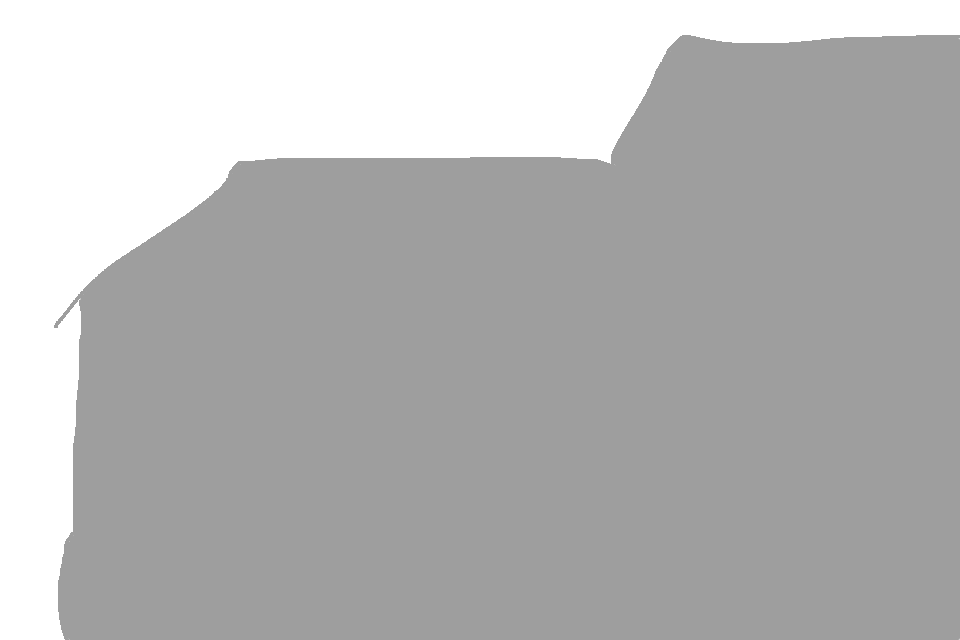
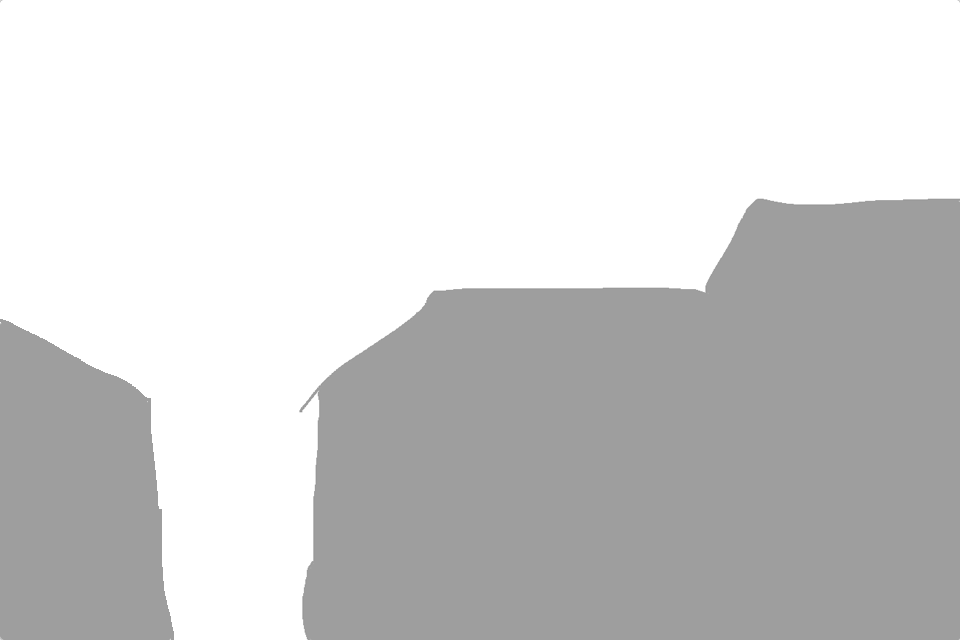
Add possibility to save when the sun arrives on the day.

diff --git a/public/stylesheets/sass/application.sass b/public/stylesheets/sass/application.sass
@@ -15,6 +15,11 @@ header
   #house
     position: absolute
 
+  #birth_container
+    position: absolute
+    top: 320px
+    left: 10px
+
   #disappearance
     position: absolute
     top: 10px
@@ -22,16 +27,16 @@ header
   
   #position1_container
     position: absolute
-    top: 300px
-    left: 50px
+    top: 370px
+    left: 300px
   #position2_container
     position: absolute
-    top: 150px
-    left: 210px
+    top: 280px
+    left: 415px
   #position3_container
     position: absolute
-    top: 40px
-    left: 650px
+    top: 190px
+    left: 740px
 
 table
   td, th

diff --git a/spec/controllers/status_controller_spec.rb b/spec/controllers/status_controller_spec.rb
@@ -17,6 +17,7 @@ describe StatusController do
       it "creates a new status" do
         post :disappear
         assigns[:status].should_not be_nil
+        assigns[:status].should_not be_changed
       end
       it "assigns todays date" do
         post :disappear
@@ -43,6 +44,24 @@ describe StatusController do
     it "should set the date" do
       post :survived, :id => 1
       assigns[:status].date.should == @date_now
+    end
+  end
+  
+  describe "POST 'birth" do
+    context "when no status for today exists" do
+      it "creates a new status" do
+        post :birth
+        assigns[:status].should_not be_nil
+        assigns[:status].should_not be_changed
+      end
+      it "should set the date" do
+        post :birth, :id => 1
+        assigns[:status].date.should == @date_now
+      end
+      it "should redirect" do
+        post :birth
+        response.should redirect_to(root_path)
+      end
     end
   end
   

diff --git a/db/schema.rb b/db/schema.rb
@@ -10,7 +10,7 @@
 #
 # It's strongly recommended to check this file into your version control system.
 
-ActiveRecord::Schema.define(:version => 20110322162852) do
+ActiveRecord::Schema.define(:version => 20110410103858) do
 
   create_table "statuses", :force => true do |t|
     t.date     "date"
@@ -20,6 +20,7 @@ ActiveRecord::Schema.define(:version => 20110322162852) do
     t.datetime "position1"
     t.datetime "position2"
     t.datetime "position3"
+    t.datetime "birth"
   end
 
 end

diff --git a/app/controllers/status_controller.rb b/app/controllers/status_controller.rb
@@ -18,4 +18,11 @@ class StatusController < ApplicationController
     @status.save!
     redirect_to root_path, :notice => "Solens överlevnad noterad"
   end
+  
+  def birth
+    @status.date ||= Date.today
+    @status.birth = Time.now
+    @status.save!
+    redirect_to root_path, :notice => "Solens födelse noterad"
+  end
 end

diff --git a/config/routes.rb b/config/routes.rb
@@ -1,6 +1,7 @@
 Solen::Application.routes.draw do
   post "disappear" => "status#disappear", :as => "status_disappear"
   post "survived/:id" => "status#survived", :as => "status_survived"
+  post "birth" => "status#birth", :as => "status_birth"
   
   match "statuses" => "status#index", :as => "statuses"
   

diff --git a/app/models/status.rb b/app/models/status.rb
@@ -10,4 +10,12 @@ class Status < ActiveRecord::Base
       default
     end
   end
+  
+  def birth_string
+    unless birth.blank?
+      I18n.l(birth, :format => :short_time)
+    else
+      "Upp"
+    end
+  end
 end

diff --git a/db/migrate/20110410103858_add_birth_to_status.rb b/db/migrate/20110410103858_add_birth_to_status.rb
@@ -1,0 +1,9 @@
+class AddBirthToStatus < ActiveRecord::Migration
+  def self.up
+    add_column :statuses, :birth, :datetime
+  end
+
+  def self.down
+    remove_column :statuses, :birth
+  end
+end
